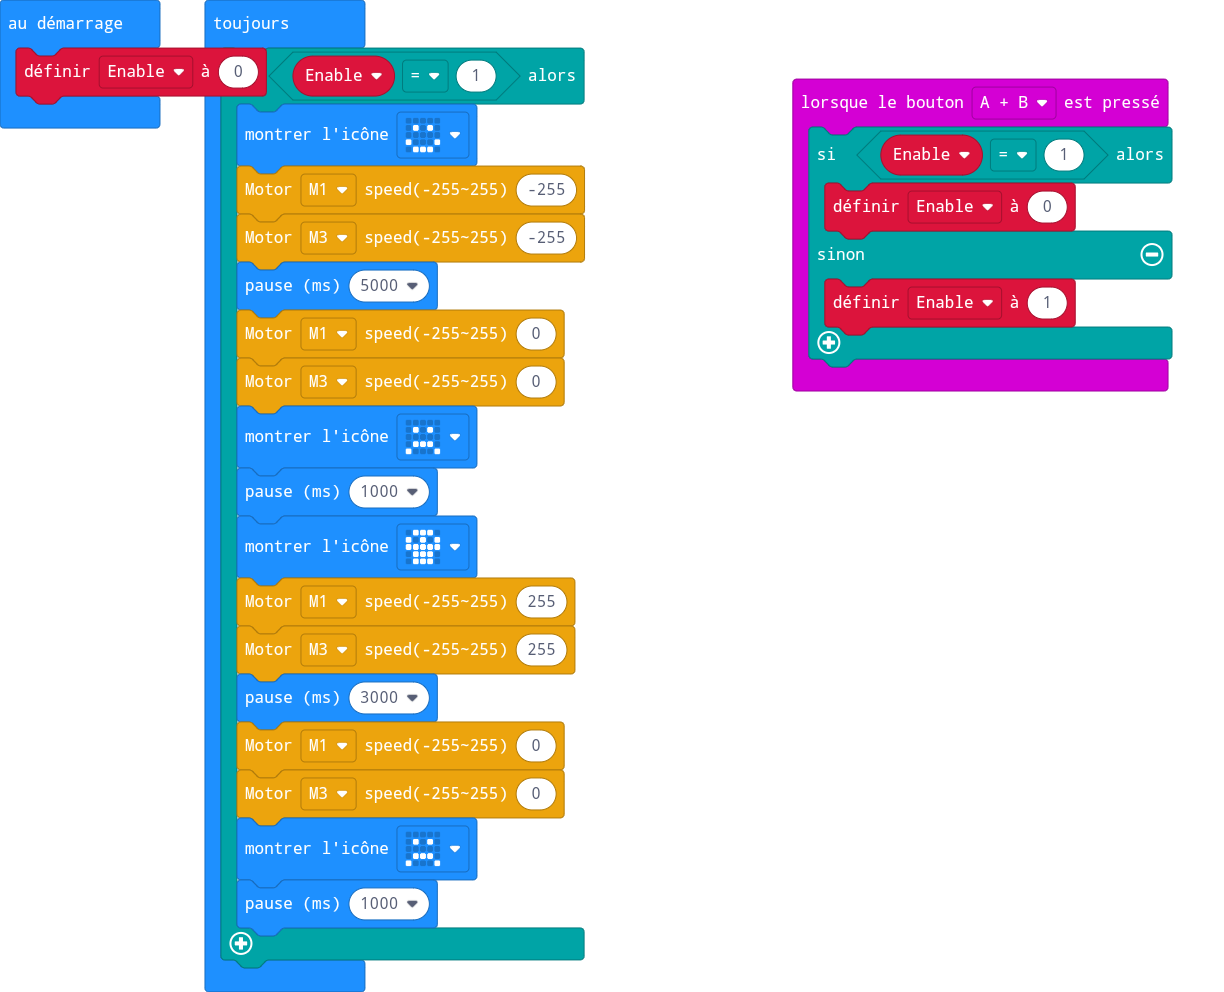
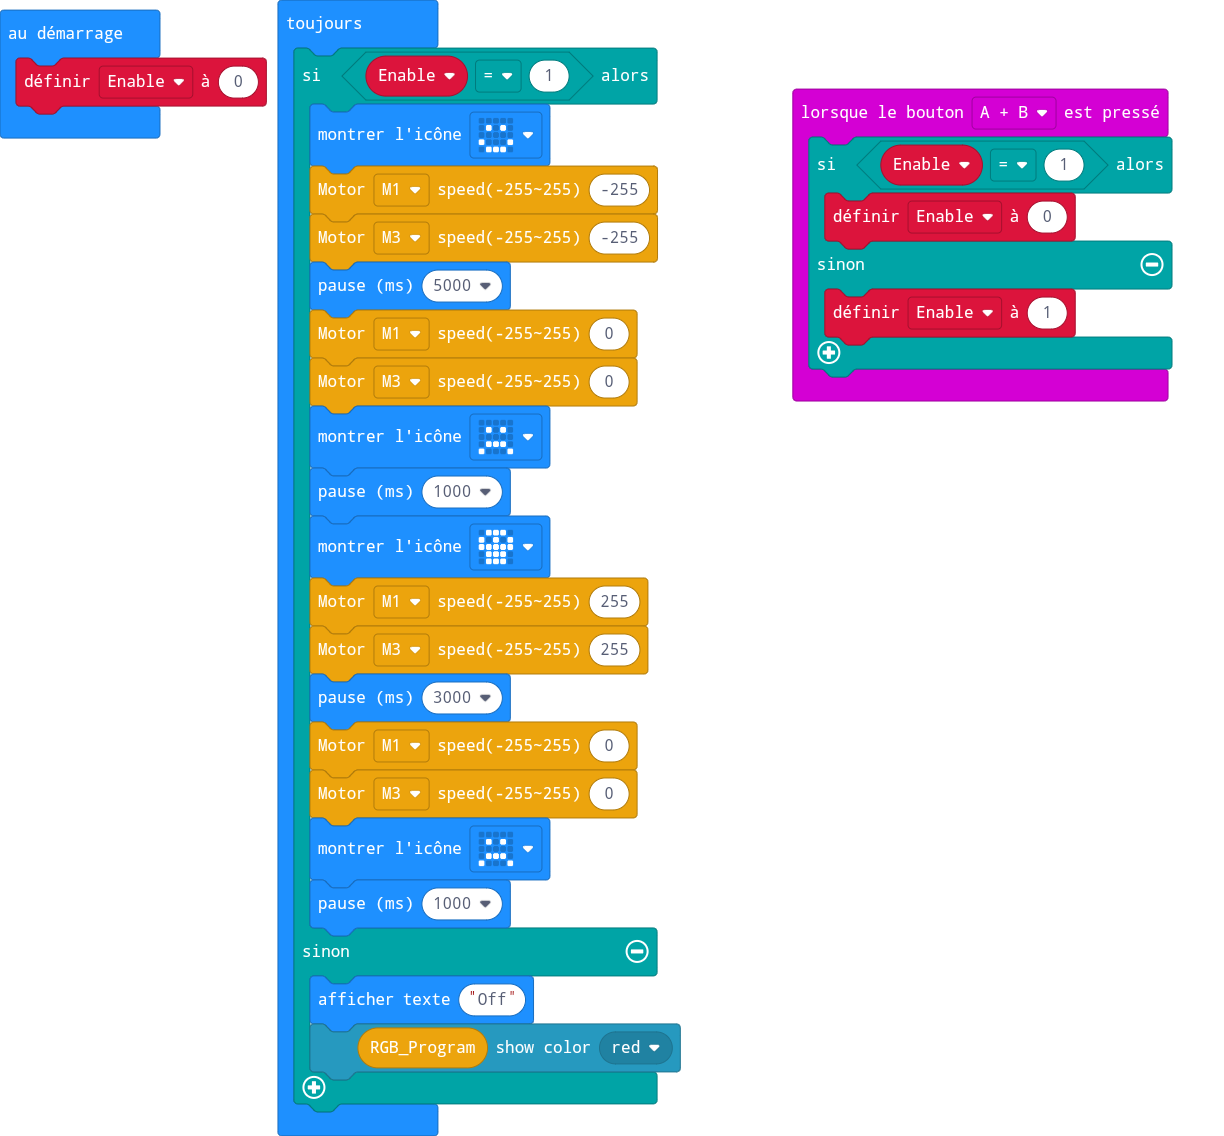
marche arret avec bp A et B

diff --git a/main.ts b/main.ts
@@ -25,5 +25,8 @@ basic.forever(function () {
         SuperBit.MotorRun(SuperBit.enMotors.M3, 0)
         basic.showIcon(IconNames.Sad)
         basic.pause(1000)
+    } else {
+        basic.showString("Off")
+        SuperBit.RGB_Program().showColor(neopixel.colors(NeoPixelColors.Red))
     }
 })
